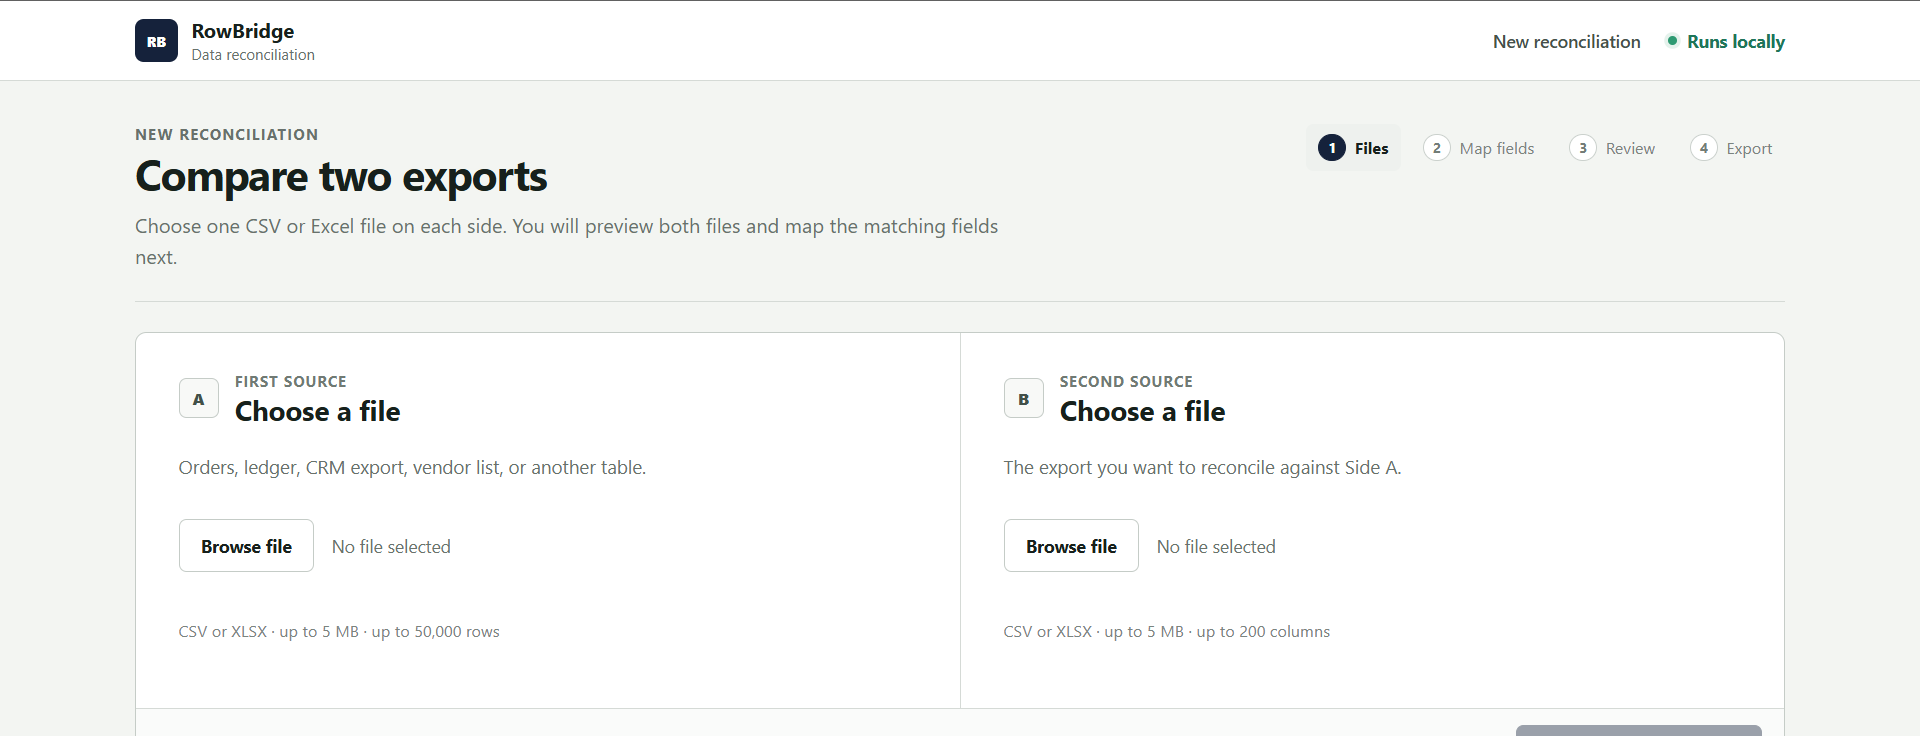
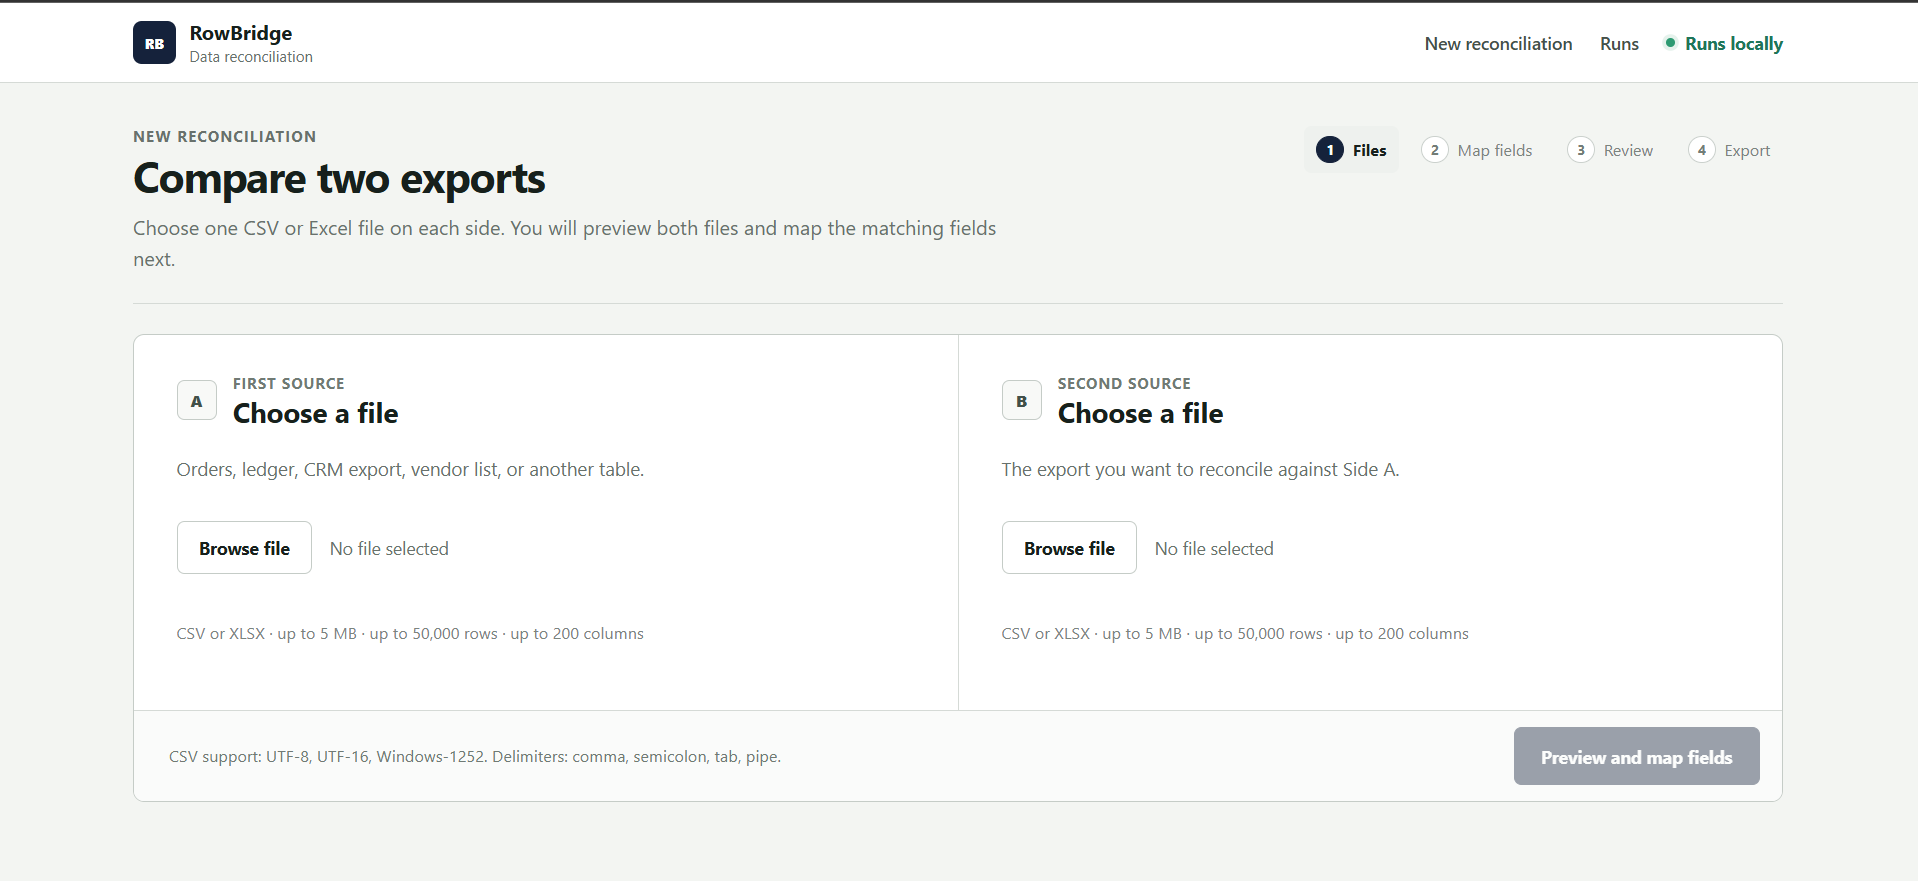
chore: prepare RowBridge 0.8.0 release (#12)

diff --git a/src/rowbridge/static/app.css b/src/rowbridge/static/app.css
@@ -22,6 +22,13 @@ html { min-width: 320px; background: var(--bg); }
 body { margin: 0; min-width: 320px; min-height: 100vh; background: var(--bg); color: var(--ink); font-size: 16px; }
 a { color: inherit; }
 button, input, select { font: inherit; }
+a:focus-visible,
+button:focus-visible,
+input:focus-visible,
+select:focus-visible {
+  outline: 3px solid #9bb5da;
+  outline-offset: 2px;
+}
 h1, h2, h3, p, dl, dd { margin: 0; }
 
 .app-header {
@@ -251,7 +258,7 @@ select, input[type="number"] {
   color: var(--ink);
   font-size: 14px;
 }
-select:focus, input[type="number"]:focus { outline: 2px solid #bfd0e9; outline-offset: 1px; border-color: #768ba8; }
+select:focus-visible, input[type="number"]:focus-visible { border-color: #768ba8; }
 .mapping-footer {
   display: flex;
   align-items: end;

diff --git a/src/rowbridge/templates/delete_run.html b/src/rowbridge/templates/delete_run.html
@@ -6,7 +6,7 @@
     <p class="eyebrow">Delete saved run</p>
     <h1>Delete this reconciliation run?</h1>
     <p class="delete-run-warning">
-      This permanently removes the saved result, source rows, matches, and review history from this local RowBridge data directory.
+      This removes the saved result, source rows, matches, and review history from RowBridge's local database.
     </p>
 
     <dl class="delete-run-details">

diff --git a/README.md b/README.md
@@ -15,7 +15,7 @@ Requirements: Python 3.12+ and [`uv`](https://docs.astral.sh/uv/).
 ```bash
 git clone https://github.com/SerDrozd/rowbridge.git
 cd rowbridge
-uv sync --extra dev
+uv sync
 uv run rowbridge
 ```
 
@@ -33,11 +33,13 @@ The included demo files can be reconciled with these mappings:
 
 Application state is stored in `.rowbridge/` by default. Set `ROWBRIDGE_DATA_DIR` to use another directory.
 
+Completed runs are saved locally under **Runs**, where they can be reopened or deleted explicitly.
+
 ## Typical workflow
 
 1. Load one CSV or XLSX export on each side.
 2. Preview the files and map equivalent fields.
-3. Review uncertain matches and accept, reject, or manually link rows.
+3. Review uncertain matches, accept or reject proposals, link unmatched rows manually, and revise those decisions when needed.
 4. Export the current reconciliation as CSV or XLSX.
 
 ![RowBridge file selection](docs/images/home.png)
@@ -83,11 +85,11 @@ Duplicate headers, empty headers, malformed rows, oversized workbook archives, u
 
 ## Review and audit trail
 
-A review candidate can be accepted or rejected. Unmatched rows can also be linked manually.
+A review candidate can be accepted or rejected, and unmatched rows can be linked manually. Confirmed matches can be reopened for review, and manual links can be unlinked when a decision needs to be revised.
 
-Accepted pairs keep their algorithmic score and evidence. Rejected pairs return both rows to the unmatched pool. Manual links are stored as human decisions without inventing an algorithmic confidence score.
+Rejected proposals return both rows to the unmatched pool. When both original rows are still unmatched, the proposal can be restored with its original algorithmic score and evidence.
 
-Review actions are appended to the run history with the affected rows, timestamp, previous state, resulting state, and a short explanation.
+Review actions, including reopen, unlink, and restore decisions, are appended to the run history with the affected rows, timestamp, previous state, resulting state, and a short explanation.
 
 ## Exports
 

diff --git a/CHANGELOG.md b/CHANGELOG.md
@@ -1,5 +1,19 @@
 # Changelog
 
+## 0.8.0 - 2026-10-04
+
+### Added
+
+- confirmed matches can be reopened for review;
+- manual matches can be unlinked back into unmatched rows;
+- rejected proposals can be restored when both original rows are still unmatched.
+
+### Changed
+
+- restored proposals keep their original algorithmic score and evidence;
+- review history records reopen, unlink, and restore actions;
+- existing local databases are migrated compatibly to store rejected-proposal evidence.
+
 ## 0.7.0 - 2026-10-04
 
 ### Added

diff --git a/SECURITY.md b/SECURITY.md
@@ -27,6 +27,8 @@ Source files are treated as read-only inputs. RowBridge may create temporary sta
 
 A successful run deletes its staged source copies. Abandoned staging directories expire automatically.
 
+Application data stored by RowBridge is not encrypted at rest. Deleting a saved run removes its records from RowBridge's local database, but is not intended to provide secure disk erasure.
+
 The reconciliation path has no required external API dependency.
 
 ## Reporting a vulnerability
